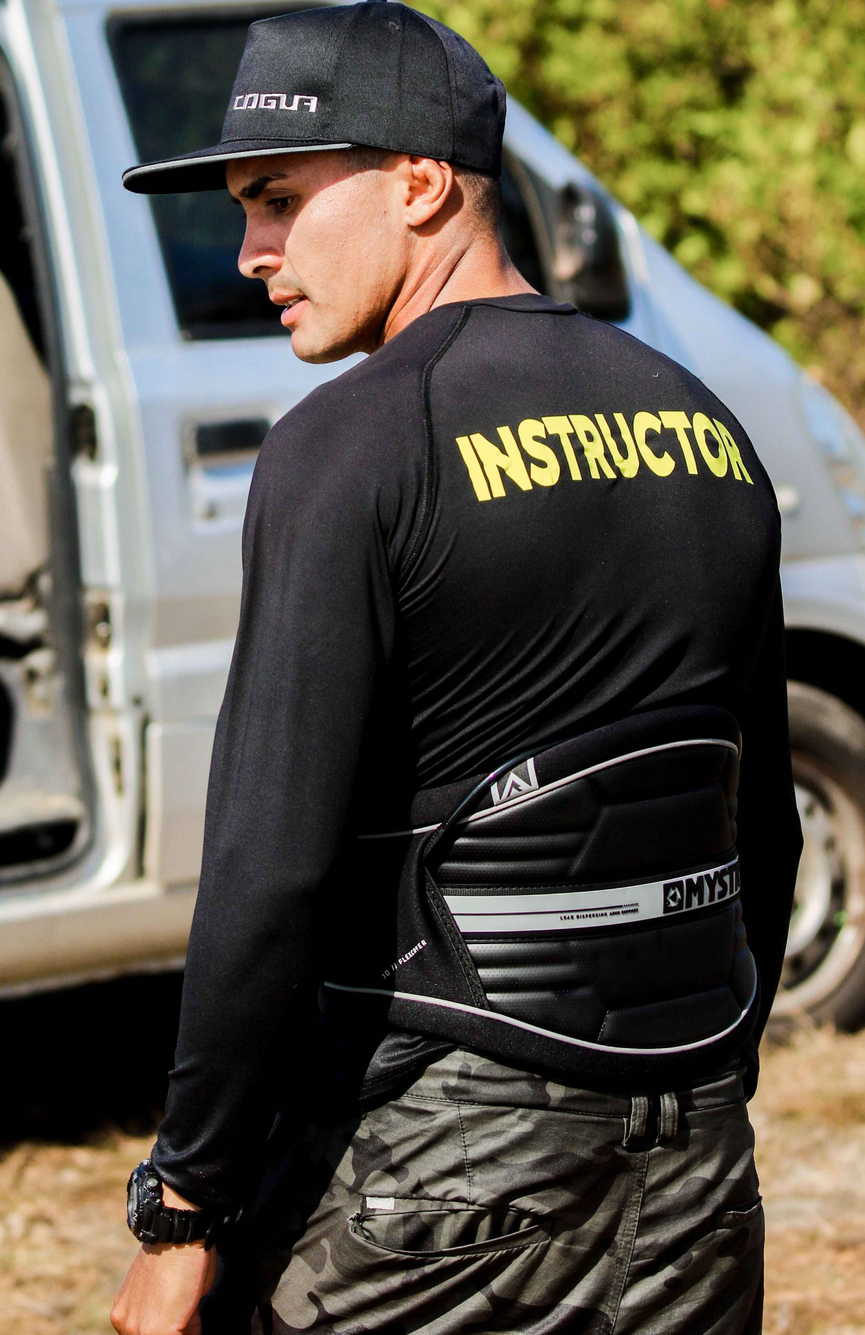
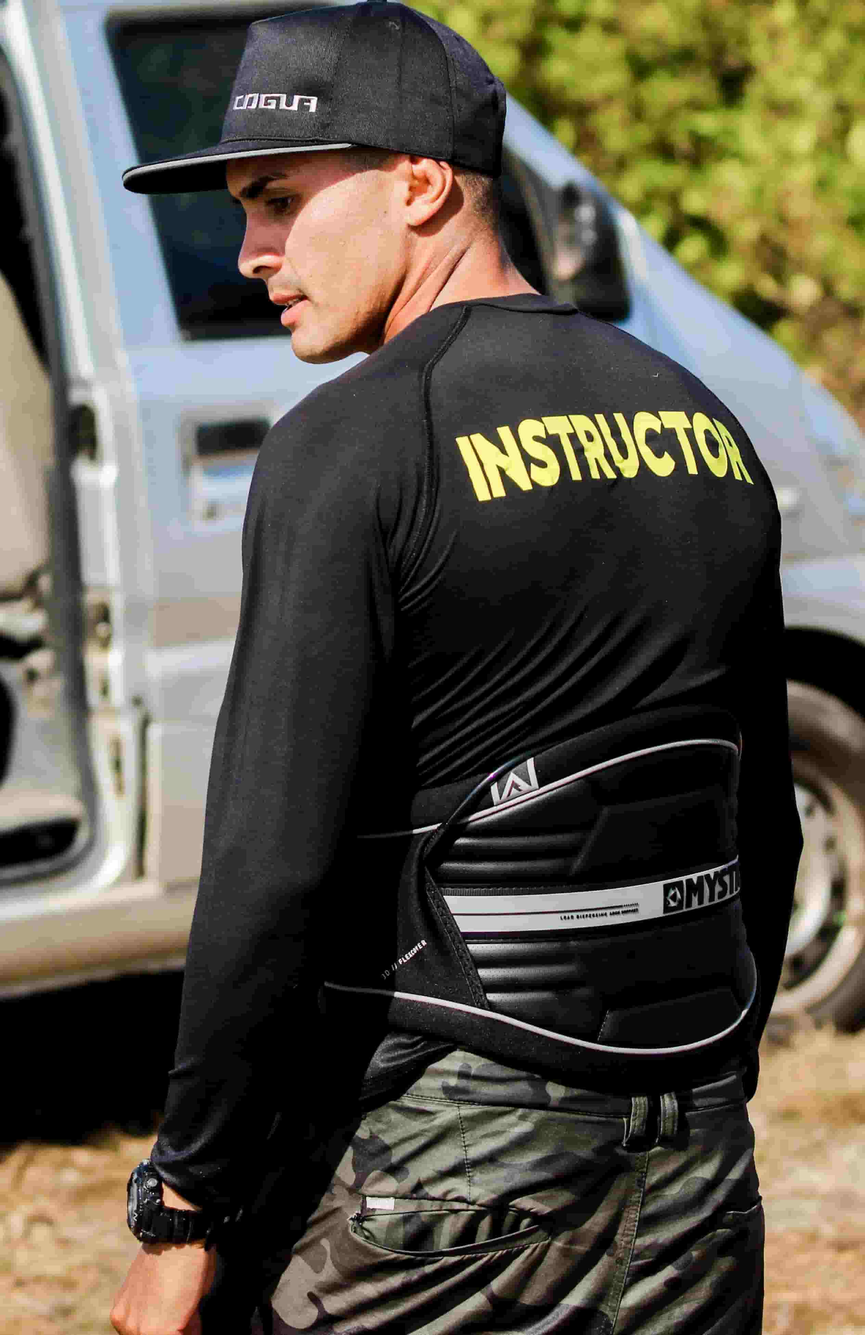
atualizando progrma html e css para auditoria

diff --git a/wwr/contato.html b/wwr/contato.html
@@ -4,10 +4,11 @@
 <head>
     <meta charset="UTF-8">
     <meta name="viewport" content="width=device-width, initial-scale=1.0">
-    <title>Fale Conosco | Rata das Corredeiras</title>
+    <title>Fale Conosco | Rota das Corredeiras</title>
 
     <meta name="author" content="Ricardo Leonel">
-    <meta name="description" content="Esta página tem como objetivo entrar em contato conosco">
+    <meta name="description"
+      content="Entre em contato com a Rota das Corredeiras para tirar dúvidas, conhecer nossos passeios de rafting e planejar sua próxima aventura.">
 
     <link rel="stylesheet" href="estilos/rafting.css">
     <link rel="stylesheet" href="estilos/contato.css">
@@ -28,7 +29,7 @@
     </header>
     <main>
         <div class="contato">
-            <h1>Companhia de Rota das Corredeiras</h1>
+            <h1>Entre em contato com a Rota das Corredeiras</h1>
             <h2>Rua Principal do Rio</h2>
             <h2>Foz do Iguaçu, Paraná</h2>
             <h2>+55 (45)99999-9999</h2>
@@ -49,26 +50,26 @@
             </div>
 
             <div class="p-mensag">
-                <div class="titulo-mensagem">
-                    <label>Propósito da Mensagem</label>
-                </div>
+                <fieldset>
+                    <legend>Propósito da Mensagem</legend>
 
-                <div class="opcoes-mensagem">
-                    <label>
-                        <input type="radio" name="pm" value="duvida">
-                        Dúvida Geral
-                    </label>
+                    <div class="opcoes-mensagem">
+                        <label for="duvida">
+                            <input type="radio" id="duvida" name="pm" value="duvida">
+                            Dúvida Geral
+                        </label>
 
-                    <label>
-                        <input type="radio" name="pm" value="pergunta">
-                        Pergunta sobre Reserva
-                    </label>
+                        <label for="pergunta">
+                            <input type="radio" id="pergunta" name="pm" value="pergunta">
+                            Pergunta sobre Reserva
+                        </label>
 
-                    <label>
-                        <input type="radio" name="pm" value="sugestao">
-                        Sugestão
-                    </label>
-                </div>
+                        <label for="sugestao">
+                            <input type="radio" id="sugestao" name="pm" value="sugestao">
+                            Sugestão
+                        </label>
+                    </div>
+                </fieldset>
             </div>
 
             <div class="mensagem">
@@ -99,7 +100,8 @@
                 </figure>
 
                 <figure>
-                    <img src="imagens/foto_perfil_instrutora.jpg" alt="Foto de Perfil da Instrutora">
+                    <img src="imagens/foto_perfil_instrutora.jpg"
+                      alt="Foto de Perfil da Instrutora">
                     <figcaption>Instrutora</figcaption>
                 </figure>
             </div>

diff --git a/wwr/estilos/contato.css b/wwr/estilos/contato.css
@@ -227,3 +227,31 @@ main > section .cta figcaption {
         grid-template-columns: repeat(3, 1fr);
     }
 }
+
+.p-mensag fieldset {
+    border: 0;
+    padding: 0;
+    margin: 0;
+    min-width: 0;
+}
+
+.p-mensag legend {
+    width: 100px;
+    padding: 0;
+    margin-bottom: 6px;
+    font-size: 14px;
+    font-weight: bold;
+    line-height: 19px;
+}
+
+.opcoes-mensagem label {
+    display: flex;
+    align-items: center;
+    white-space: nowrap;
+    font-size: 14px;
+    font-weight: bold;
+}
+
+.opcoes-mensagem input {
+    margin: 0 7px 0 0;
+}

diff --git a/wwr/estilos/rafting.css b/wwr/estilos/rafting.css
@@ -33,17 +33,6 @@ footer {
     text-align: left;
 }
 
-/*organizar os elementos filhos deste header lado a lado*/
-header {
-    display: grid;
-    grid-template-columns: 1fr 2fr;
-    align-items: center;
-    justify-content: space-around;
-    /*Coloca o primeiro elemento de um lado e o segundo do outro*/
-    padding: 10px 20px;
-
-}
-
 nav a {
     display: flex;
     text-decoration: none;
@@ -89,7 +78,7 @@ article {
     gap: 15px;
 }
 
-.redes-socias a:hover {
+.redes-sociais a:hover {
     color: var(--cor-secundaria);
 }
 
